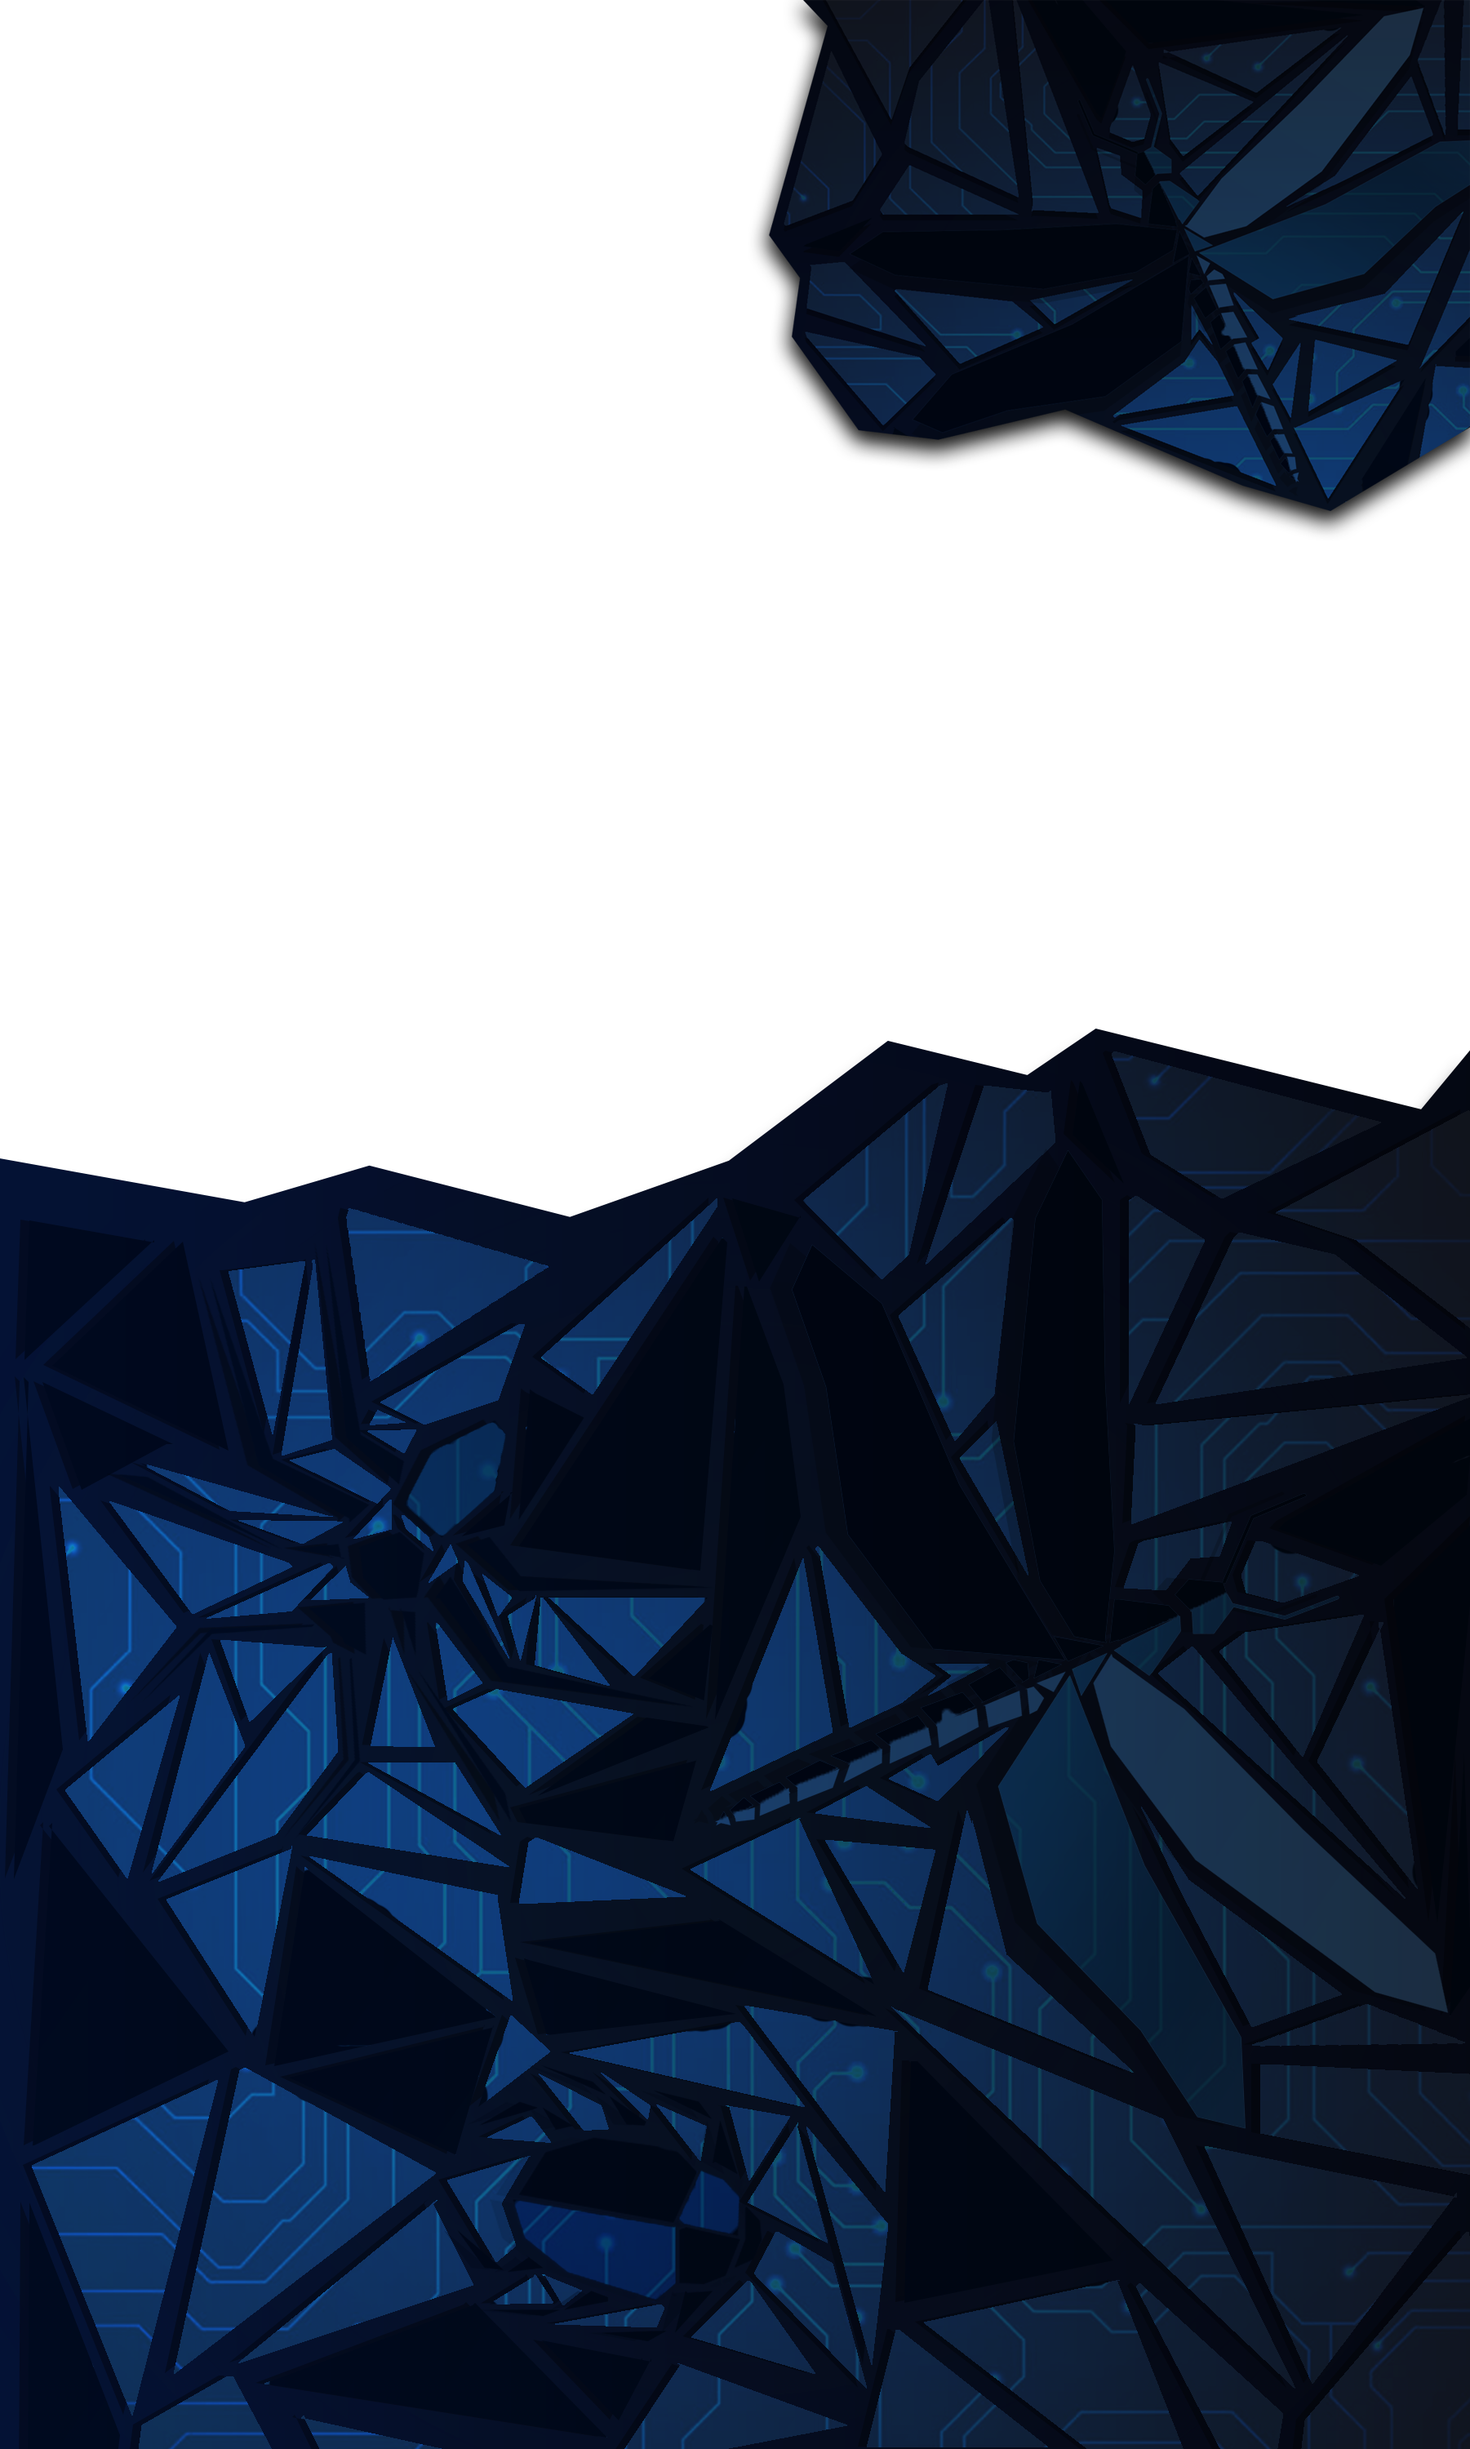
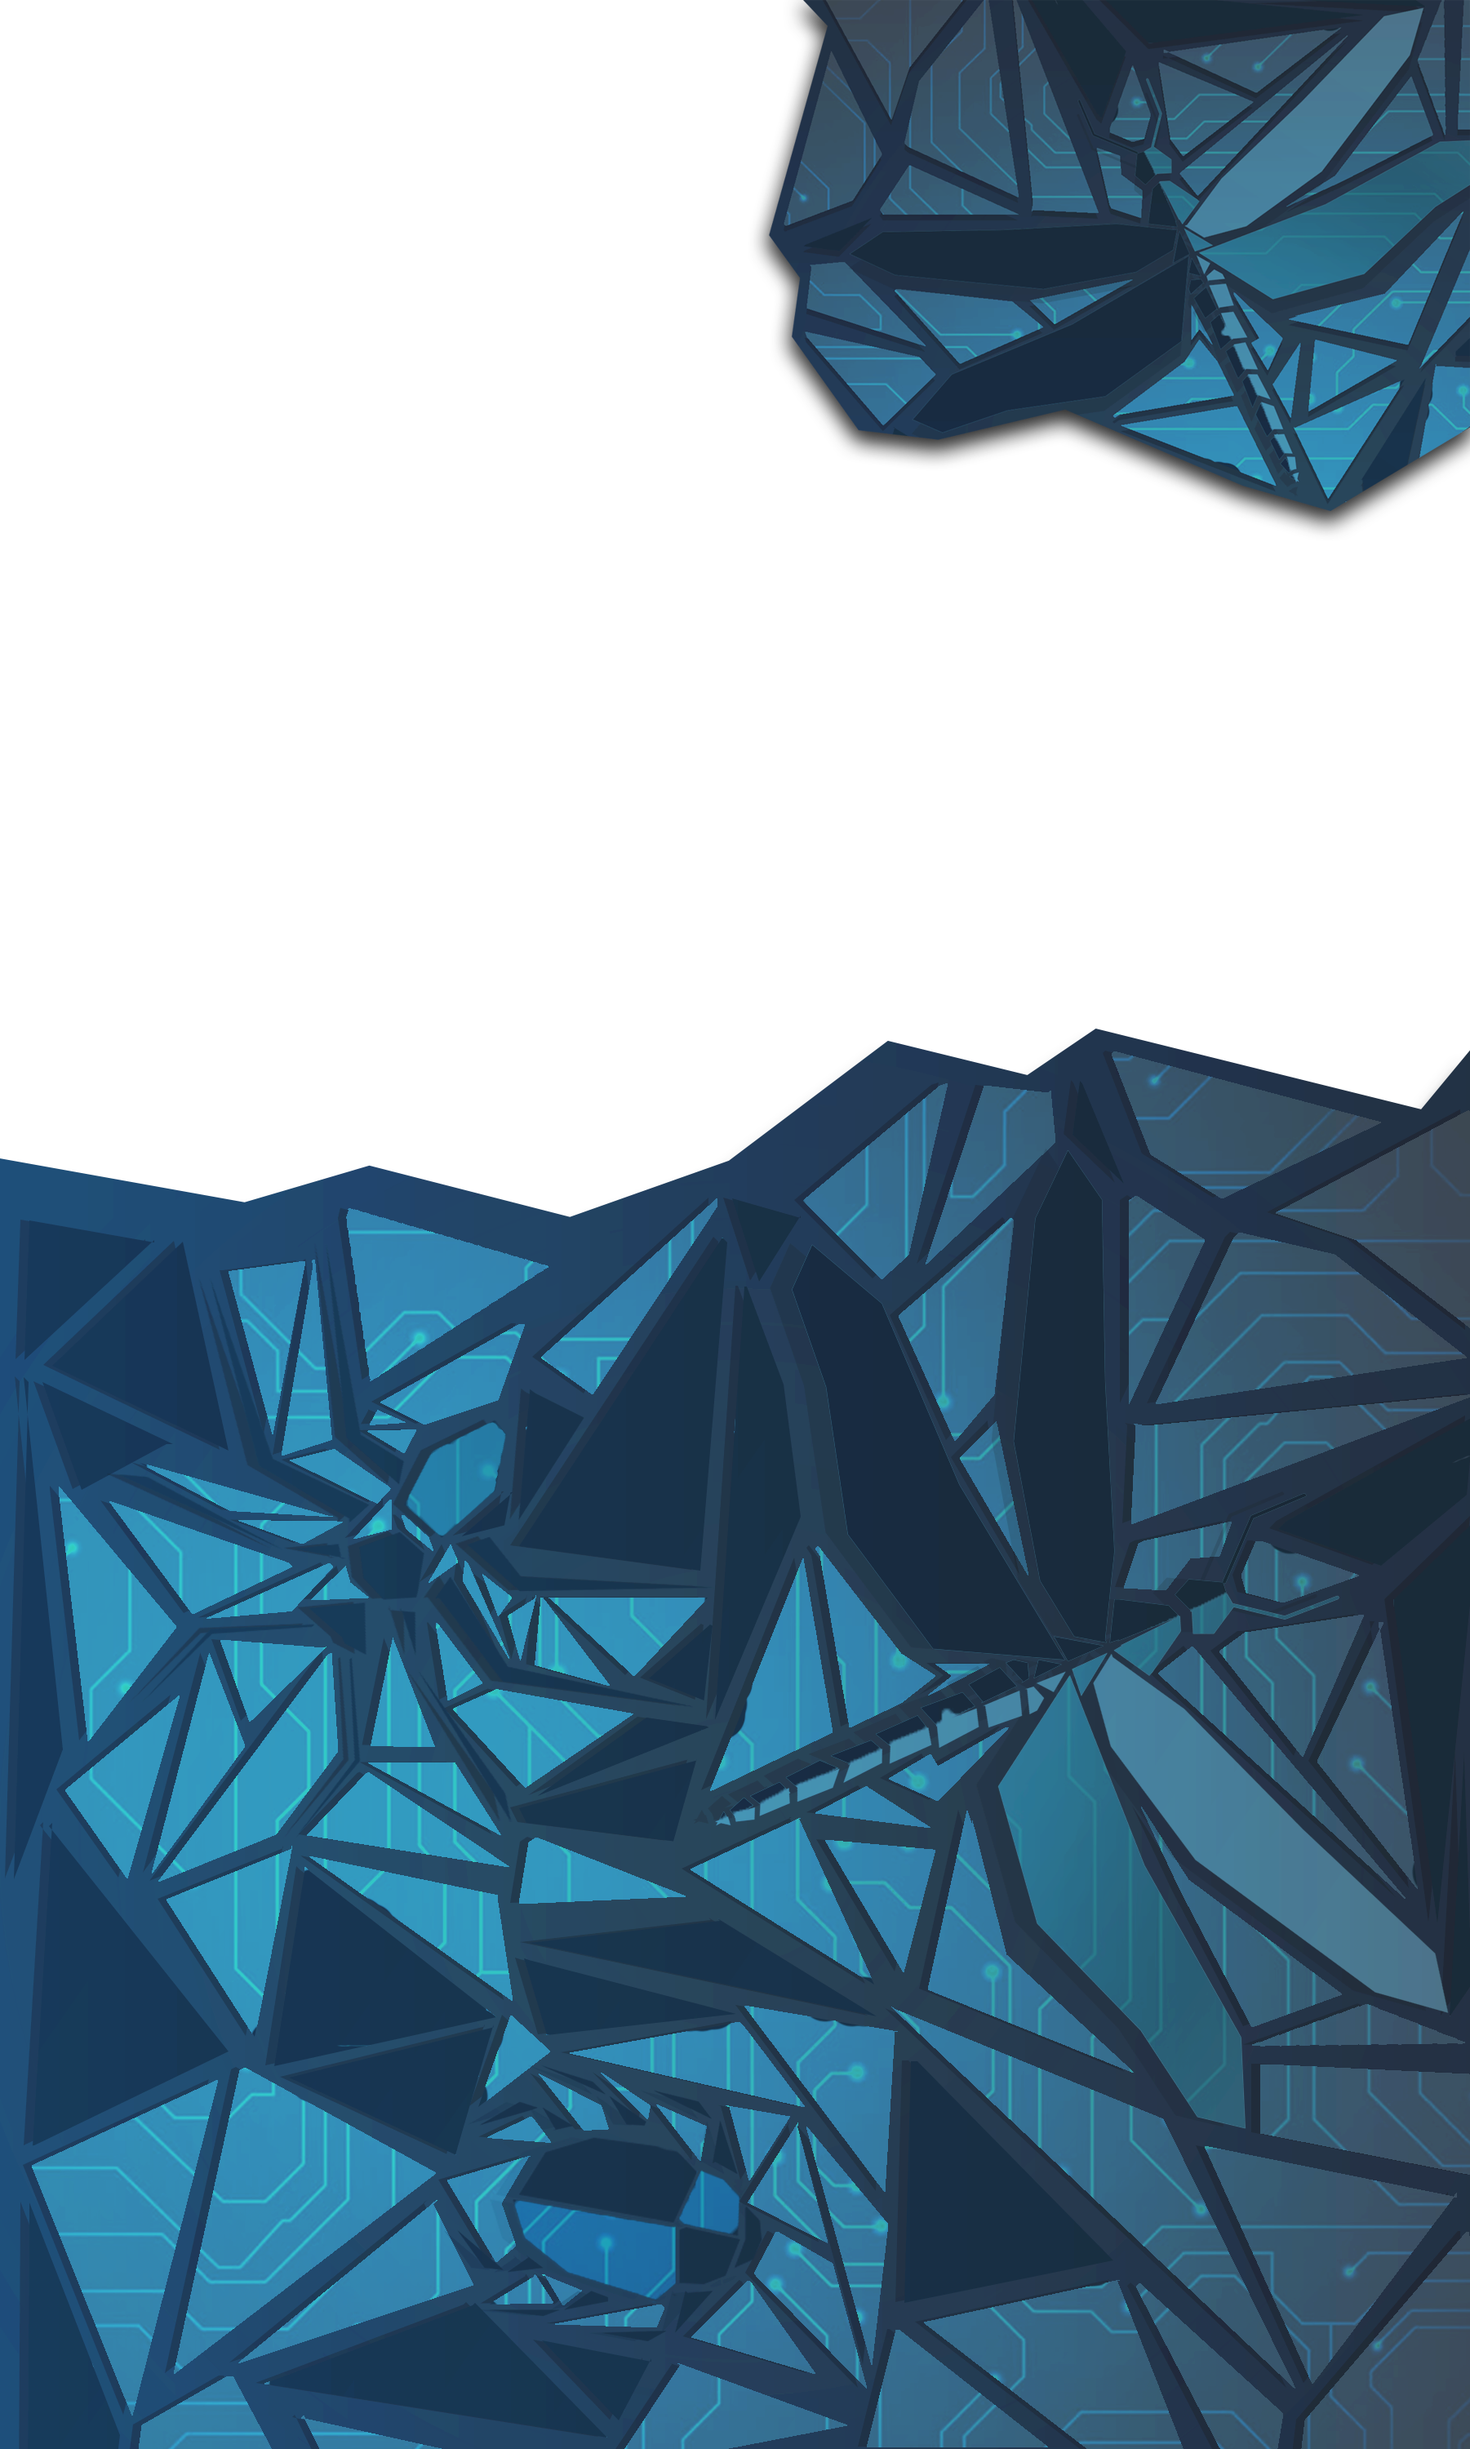
color change

diff --git a/client/src/components/Nav/Nav.css b/client/src/components/Nav/Nav.css
@@ -1,5 +1,5 @@
 .navbar-inverse {
-    background-color: #040813;
+    background-color: #15202e;
     border:0;
     box-sizing: border-box;
   }
